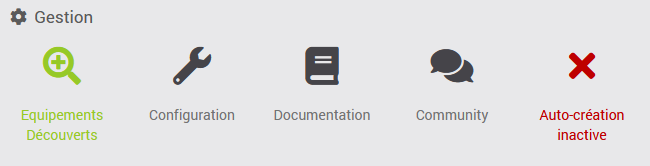
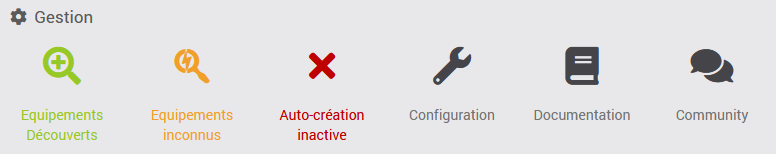
update doc

diff --git a/MQTTDiscovery/fr_FR/index.md b/MQTTDiscovery/fr_FR/index.md
@@ -94,6 +94,9 @@ exemple, le plugin me propose le topic *zwave* que je peux ajouter simplement en
 
 ![topic_config](../images/topic_config.png)
 
+La dernière option permet de lister les équipements inconnus qui publient sur un des topics racines configurés.
+Si un équipement inconnus est ajouté (voir **Gestion des équipements** pour savoir comment), seul la gestion de présence sera possible; cela n'a donc d'intérêt que pour les équipements Bluetooth en principe et cela permet d'utiliser un tracker Bluetooth même s'il n'est pas décodée par *Open MQTT Gateway* ou *Theengs Gateway*.
+
 ## Démon
 
 Pour finir, vous pouvez configurer les infos suivantes (optionnelles):
@@ -121,9 +124,17 @@ En cliquant sur ce bouton, une nouvelle fenêtre va s'ouvrir:
 
 Il suffit de cliquer sur le bouton "Ajouter" de l'équipement voulu et ensuite de cliquer sur le bouton "Fermer et terminer la création des équipements nouvellement ajoutés" pour que l'équipement et ses commandes soient créés.
 
-De retour sur le bandeau de gestion, vous verrez un bouton pour accéder à la configuration du plugin, à la documentation ainsi qu'aux derniers sujets à propos du plugin sur community.
+Dans cet écran vous pouvez aussi visualiser l'ensemble de la configuration d'un appareil et aussi supprimer celui-ci de la liste si vous n'en avez pas besoin. Attention cette action supprime également l'information sur votre broker mqtt.
 
-Le dernier bouton vous permet de visualiser le statut de la création automatique et de l'activer ou la désactiver directement depuis cette page, il s'agit de la même configuration que celle visible dans la configuration du plugin.
+Le second bouton sur le bandeau de gestion, nommé "Equipements inconnus", ne sera visible que si vous avez activez l'option correspondante (voir **Configuration du plugin**) et il permet l'accès à un écran très similaire au précédent sauf qu'il n'y a pas de configuration.
+
+![devices_discovered](../images/devices_unknown.png)
+
+Lorsque vous avez ajouté un des équipements "inconnus" depuis cet écran, les commandes ne seront pas immédiatement créées. Il faudra attendre quelques secondes voir minutes que celui-ci émette une information afin que le plugin crée la commande correspondante.
+
+Le bouton suivant vous permet de visualiser le statut de la création automatique et de l'activer ou la désactiver directement depuis cette page, il s'agit de la même configuration que celle visible dans la configuration du plugin.
+
+De retour sur le bandeau de gestion, vous verrez un bouton pour accéder à la configuration du plugin, à la documentation ainsi qu'aux derniers sujets à propos du plugin sur community.
 
 Dans le cas où la création automatique est active, le plugin créera les équipements et les commandes manquantes automatiquement dès qu'il recevra les informations sur le topic de découverte (par défaut `homeassistant`).
 
@@ -142,18 +153,18 @@ Il n'y a aucune configuration spécifique dans la plupart des cas exceptés pour
 
 Il est possible de définir dans la configuration de l'équipement la durée (en secondes) avant de considérer l'équipement comme absent; cela sera particulièrement utile pour les "trackers" tels que les nuts ou tiles. Un équipement est considéré comme présent si une valeur *rssi* a été reçue pendant les x dernières secondes.
 
-Sur la partie de droite, vous verrez des informations générales sur l'équipement (identifiant, configuration, fabricant, modèle ...) et vous avez la possibilité de télécharger une image à utiliser pour représenter l'équipement à la place du logo du plugin ou de l'image par défaut lorsque celle-ci existe. Le plugin gère une image par modèle et pas une image par équipement, il n'est donc pas possible d'avoir deux images différentes pour deux nuts.
+Sur la partie de droite, vous verrez des informations générales sur l'équipement (identifiant, configuration, fabricant, modèle ...) et vous avez la possibilité de télécharger une image à utiliser pour représenter l'équipement à la place du logo du plugin ou de l'image par défaut lorsque celle-ci existe. Le plugin gère une image par modèle et pas une image par équipement, il n'est donc pas possible d'avoir deux images différentes pour deux nuts à moins de modifier manuellement l'identifiant du modèle configuré, ceci n'a aucun impact excepté pour l'image utilisée:
+
+![devices_discovered](../images/model.png)
 
 Dans la liste des commandes, vous verrez le topic MQTT correspondant à chaque commande ainsi que la valeur du json s'y relevant. Il est possible d'encoder un path s'il faut aller chercher une valeur dans un sous noeud.
 En principe vous n'aurez pas à modifier ces configurations, elles sont accessibles uniquement pour gérer les cas limites si le plugin n'a pas effectué la configuration automatiquement.
 
 # Fonctionnement de la découverte automatique
 
-La découverte automatique va publier les configurations de ce qui s'appelle des *composants*/*Entité*, chaque composant correspond à une catégorie, un type de commande. Par exemple: *sensor*, *switch*, *light*, *button*...
+La découverte automatique va publier la définition complète de ce qui s'appelle des *composants*/*Entité*, chaque composant correspond à une catégorie, un type de commande. Par exemple: *sensor*, *switch*, *light*, *button*...
 
-Le plugin lit ces configurations et pour chaque composant va créer la ou les commandes Jeedom correspondantes, chacune sous leur équipement respectif.
-
-Lorsque tout vos équipements ont été découverts, vous pouvez désactiver la découverte pour éviter que le plugin ne créé des équipements que vous ne voulez pas.
+Le plugin lit ces définitions et pour chaque composant va créer la ou les commandes Jeedom correspondantes, chacune sous leur équipement respectif, en configurant les valeurs min/max ou la liste de choix possible etc mais aussi l'icône par défaut sur la commande, le type générique de celle-ci etc.
 
 ## Composant pris en charge
 
@@ -163,11 +174,14 @@ Tous les composants ne sont pas encore entièrement ni complètement intégrés.
 - binary_sensor
 - button
 - cover
+- device_automation
 - device_tracker
 - light
   - brightness
 - lock
+- music_player
 - number
+- select
 - sensor
 - switch
 - text
